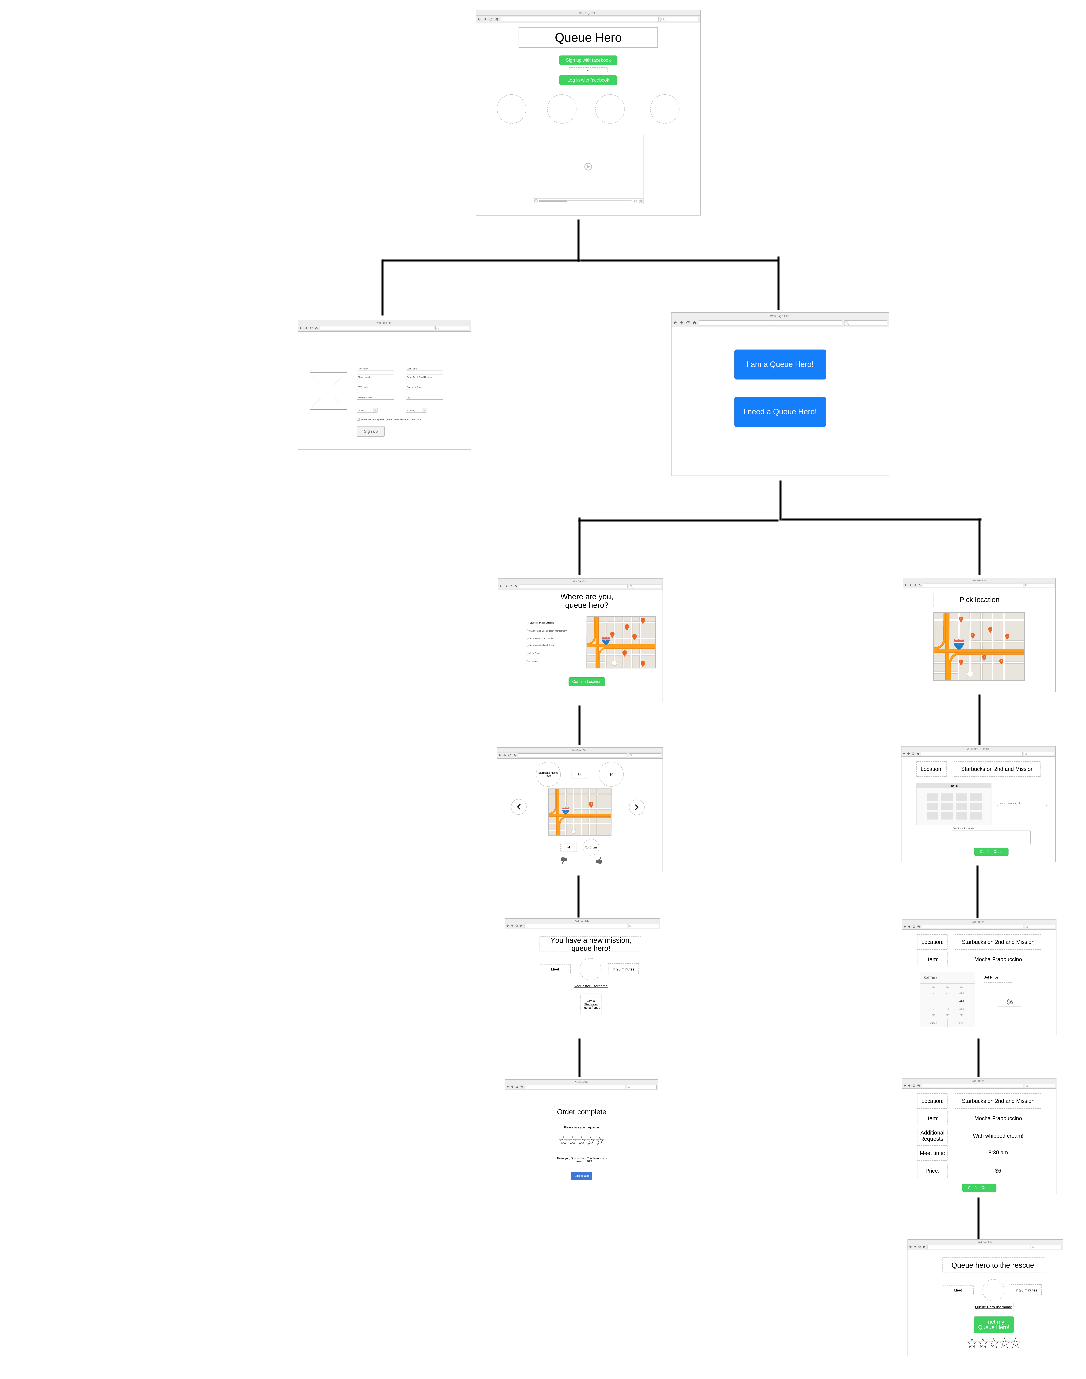
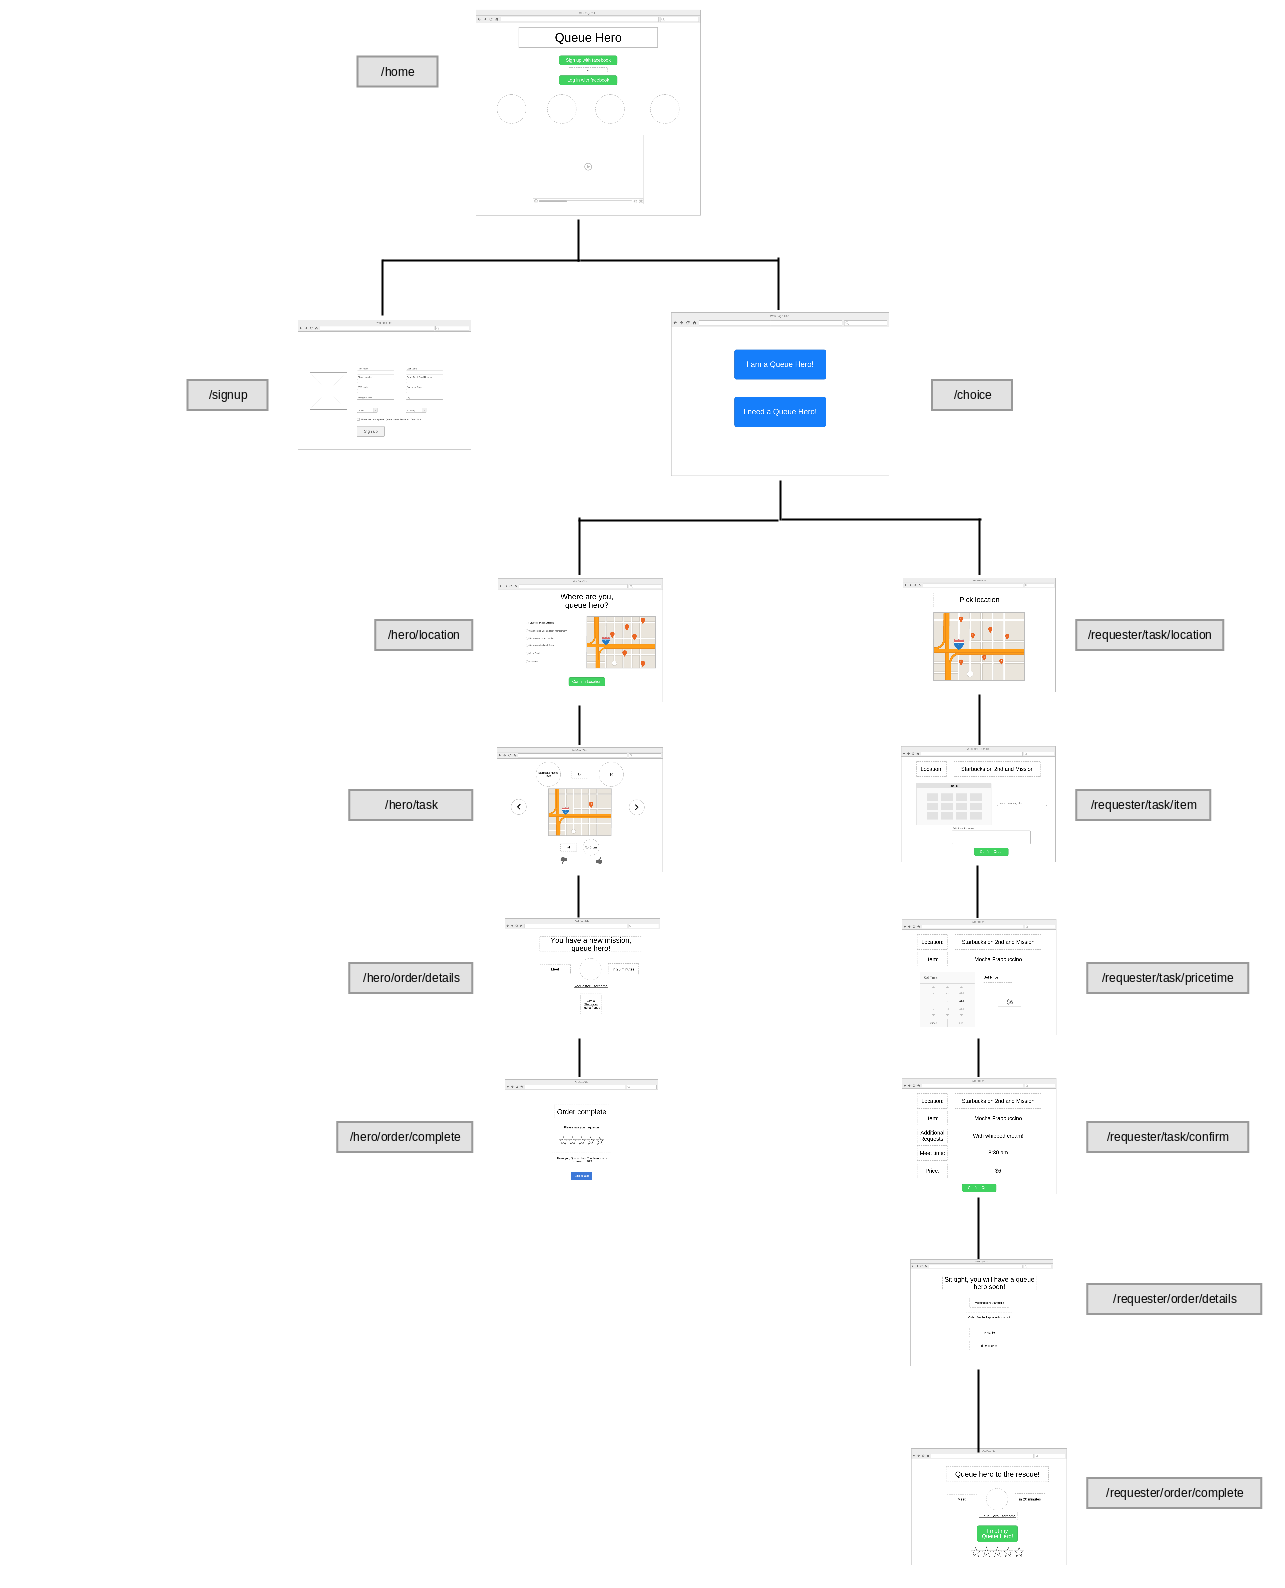
docs (readme): Add mockup screenshots and appflow diagram

diff --git a/README.md b/README.md
@@ -10,6 +10,45 @@ This is our app flow:
 
 Here are mockups for the various different views referenced in the above app flow:
 
+home
+![Alt text](/screenshots/home.png?raw=true )
+
+signup
+![Alt text](/screenshots/signup.png?raw=true )
+
+choice
+![Alt text](/screenshots/choice.png?raw=true )
+
+hero/location
+![Alt text](/screenshots/hero_confirm_location.png?raw=true )
+
+hero/task
+![Alt text](/screenshots/hero_accept_request.png?raw=true )
+
+hero/order/details
+![Alt text](/screenshots/hero_order_details.png?raw=true )
+
+hero/order/complete
+![Alt text](/screenshots/hero_order_complete.png?raw=true )
+
+requester/task/location
+![Alt text](/screenshots/requester_pick_location.png?raw=true )
+
+requester/task/item
+![Alt text](/screenshots/requester_pick_item.png?raw=true )
+
+requester/task/pricetime
+![Alt text](/screenshots/requester_pick_price_time.png?raw=true )
+
+requester/task/confirm
+![Alt text](/screenshots/requester_confirm_order.png?raw=true )
+
+requester/order/details
+![Alt text](/screenshots/requester_order_details.png?raw=true )
+
+requester/order/complete
+![Alt text](/screenshots/requester_order_complete.png?raw=true )
+
 The technologies we are using to implement Queue Hero are:
 - Mongodb / Mongoose
 - Express
